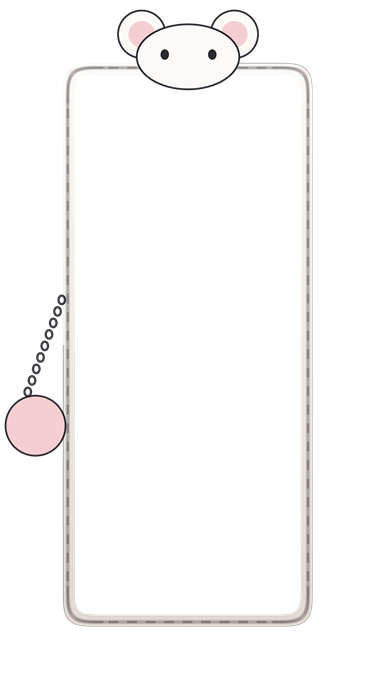
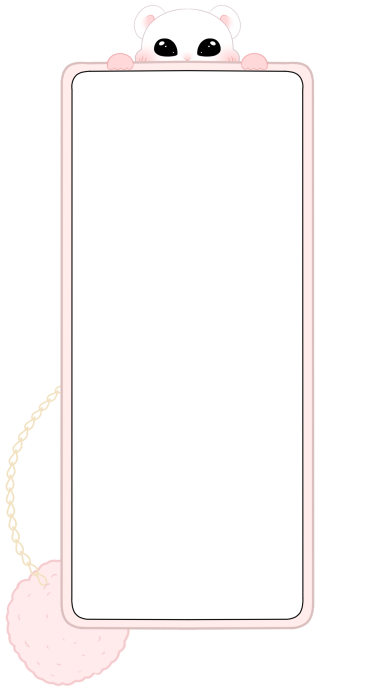
feat(cases): replace the art case lineup with 18 new hand-painted cases
Retire Ironworks, Emberforge, Voidsent, Bulwark, Carbonweave and
Alabaster. Add Foxtail, Frostnip, Nacrelle, Verdigry, Voltpup,
Aetherite, Chocorunner, Gembuncle, Ironsworn, Kuponuff, Prickletot,
Amourette, Barkleigh, Emberlash, Tidecaller, Vesperine and Whiskerlune,
and redraw Silkie in pink. Fallback tints are sampled from each case's
metal band. Anyone on a retired case falls back to Titanium.

diff --git a/src/Aetherphone/Core/Localization/L.cs b/src/Aetherphone/Core/Localization/L.cs
@@ -2874,12 +2874,23 @@ internal static class L
         public static readonly LocString AccentPink = new("catalog.accent.pink", "Pink");
         public static readonly LocString AccentAmber = new("catalog.accent.amber", "Amber");
         public static readonly LocString CaseTitanium = new("catalog.case.titanium", "Titanium");
-        public static readonly LocString CaseIronworks = new("catalog.case.ironworks", "Ironworks");
-        public static readonly LocString CaseEmberforge = new("catalog.case.emberforge", "Emberforge");
-        public static readonly LocString CaseVoidsent = new("catalog.case.voidsent", "Voidsent");
-        public static readonly LocString CaseBulwark = new("catalog.case.bulwark", "Bulwark");
-        public static readonly LocString CaseCarbonweave = new("catalog.case.carbonweave", "Carbonweave");
-        public static readonly LocString CaseAlabaster = new("catalog.case.alabaster", "Alabaster");
+        public static readonly LocString CaseFoxtail = new("catalog.case.foxtail", "Foxtail");
+        public static readonly LocString CaseFrostnip = new("catalog.case.frostnip", "Frostnip");
+        public static readonly LocString CaseNacrelle = new("catalog.case.nacrelle", "Nacrelle");
+        public static readonly LocString CaseVerdigry = new("catalog.case.verdigry", "Verdigry");
+        public static readonly LocString CaseVoltpup = new("catalog.case.voltpup", "Voltpup");
+        public static readonly LocString CaseAetherite = new("catalog.case.aetherite", "Aetherite");
+        public static readonly LocString CaseChocorunner = new("catalog.case.chocorunner", "Chocorunner");
+        public static readonly LocString CaseGembuncle = new("catalog.case.gembuncle", "Gembuncle");
+        public static readonly LocString CaseIronsworn = new("catalog.case.ironsworn", "Ironsworn");
+        public static readonly LocString CaseKuponuff = new("catalog.case.kuponuff", "Kuponuff");
+        public static readonly LocString CasePrickletot = new("catalog.case.prickletot", "Prickletot");
+        public static readonly LocString CaseAmourette = new("catalog.case.amourette", "Amourette");
+        public static readonly LocString CaseBarkleigh = new("catalog.case.barkleigh", "Barkleigh");
+        public static readonly LocString CaseEmberlash = new("catalog.case.emberlash", "Emberlash");
+        public static readonly LocString CaseTidecaller = new("catalog.case.tidecaller", "Tidecaller");
+        public static readonly LocString CaseVesperine = new("catalog.case.vesperine", "Vesperine");
+        public static readonly LocString CaseWhiskerlune = new("catalog.case.whiskerlune", "Whiskerlune");
         public static readonly LocString CaseSilkie = new("catalog.case.silkie", "Silkie");
         public static readonly LocString RingtonePing = new("catalog.ringtone.ping", "Ping");
         public static readonly LocString RingtoneChime = new("catalog.ringtone.chime", "Chime");

diff --git a/src/Aetherphone/Core/Theme/ThemeCatalog.cs b/src/Aetherphone/Core/Theme/ThemeCatalog.cs
@@ -16,13 +16,24 @@ internal static class ThemeCatalog
     private static readonly PhoneCase[] BuiltInCases =
     {
         PhoneCase.Color(DefaultCaseName, new Vector4(0.145f, 0.145f, 0.170f, 1f)),
-        PhoneCase.Art("Ironworks", new Vector4(0.335f, 0.375f, 0.421f, 1f)),
-        PhoneCase.Art("Emberforge", new Vector4(0.473f, 0.259f, 0.088f, 1f)),
-        PhoneCase.Art("Voidsent", new Vector4(0.190f, 0.122f, 0.361f, 1f)),
-        PhoneCase.Art("Bulwark", new Vector4(0.224f, 0.249f, 0.277f, 1f)),
-        PhoneCase.Art("Carbonweave", new Vector4(0.122f, 0.133f, 0.153f, 1f)),
-        PhoneCase.Art("Alabaster", new Vector4(0.826f, 0.798f, 0.751f, 1f)),
-        PhoneCase.Art("Silkie", new Vector4(0.918f, 0.894f, 0.867f, 1f)),
+        PhoneCase.Art("Foxtail", new Vector4(0.310f, 0.196f, 0.114f, 1f)),
+        PhoneCase.Art("Frostnip", new Vector4(0.599f, 0.698f, 0.746f, 1f)),
+        PhoneCase.Art("Nacrelle", new Vector4(0.562f, 0.473f, 0.329f, 1f)),
+        PhoneCase.Art("Verdigry", new Vector4(0.490f, 0.465f, 0.360f, 1f)),
+        PhoneCase.Art("Voltpup", new Vector4(0.158f, 0.279f, 0.324f, 1f)),
+        PhoneCase.Art("Aetherite", new Vector4(0.624f, 0.672f, 0.907f, 1f)),
+        PhoneCase.Art("Chocorunner", new Vector4(0.717f, 0.541f, 0.186f, 1f)),
+        PhoneCase.Art("Gembuncle", new Vector4(0.685f, 0.694f, 0.436f, 1f)),
+        PhoneCase.Art("Ironsworn", new Vector4(0.273f, 0.311f, 0.371f, 1f)),
+        PhoneCase.Art("Kuponuff", new Vector4(0.780f, 0.666f, 0.587f, 1f)),
+        PhoneCase.Art("Prickletot", new Vector4(0.570f, 0.635f, 0.380f, 1f)),
+        PhoneCase.Art("Amourette", new Vector4(0.969f, 0.877f, 0.860f, 1f)),
+        PhoneCase.Art("Barkleigh", new Vector4(0.744f, 0.549f, 0.260f, 1f)),
+        PhoneCase.Art("Emberlash", new Vector4(0.794f, 0.697f, 0.490f, 1f)),
+        PhoneCase.Art("Tidecaller", new Vector4(0.266f, 0.516f, 0.556f, 1f)),
+        PhoneCase.Art("Vesperine", new Vector4(0.719f, 0.690f, 0.949f, 1f)),
+        PhoneCase.Art("Whiskerlune", new Vector4(0.242f, 0.222f, 0.360f, 1f)),
+        PhoneCase.Art("Silkie", new Vector4(1.000f, 0.922f, 0.918f, 1f)),
     };
 
     public static IReadOnlyList<PhoneCase> Cases { get; } = BuiltInCases;

diff --git a/src/Aetherphone/Core/Localization/CatalogLabels.cs b/src/Aetherphone/Core/Localization/CatalogLabels.cs
@@ -27,12 +27,23 @@ internal static class CatalogLabels
         identifier switch
         {
             "Titanium" => Loc.T(L.Catalogs.CaseTitanium),
-            "Ironworks" => Loc.T(L.Catalogs.CaseIronworks),
-            "Emberforge" => Loc.T(L.Catalogs.CaseEmberforge),
-            "Voidsent" => Loc.T(L.Catalogs.CaseVoidsent),
-            "Bulwark" => Loc.T(L.Catalogs.CaseBulwark),
-            "Carbonweave" => Loc.T(L.Catalogs.CaseCarbonweave),
-            "Alabaster" => Loc.T(L.Catalogs.CaseAlabaster),
+            "Foxtail" => Loc.T(L.Catalogs.CaseFoxtail),
+            "Frostnip" => Loc.T(L.Catalogs.CaseFrostnip),
+            "Nacrelle" => Loc.T(L.Catalogs.CaseNacrelle),
+            "Verdigry" => Loc.T(L.Catalogs.CaseVerdigry),
+            "Voltpup" => Loc.T(L.Catalogs.CaseVoltpup),
+            "Aetherite" => Loc.T(L.Catalogs.CaseAetherite),
+            "Chocorunner" => Loc.T(L.Catalogs.CaseChocorunner),
+            "Gembuncle" => Loc.T(L.Catalogs.CaseGembuncle),
+            "Ironsworn" => Loc.T(L.Catalogs.CaseIronsworn),
+            "Kuponuff" => Loc.T(L.Catalogs.CaseKuponuff),
+            "Prickletot" => Loc.T(L.Catalogs.CasePrickletot),
+            "Amourette" => Loc.T(L.Catalogs.CaseAmourette),
+            "Barkleigh" => Loc.T(L.Catalogs.CaseBarkleigh),
+            "Emberlash" => Loc.T(L.Catalogs.CaseEmberlash),
+            "Tidecaller" => Loc.T(L.Catalogs.CaseTidecaller),
+            "Vesperine" => Loc.T(L.Catalogs.CaseVesperine),
+            "Whiskerlune" => Loc.T(L.Catalogs.CaseWhiskerlune),
             "Silkie" => Loc.T(L.Catalogs.CaseSilkie),
             _ => identifier,
         };
